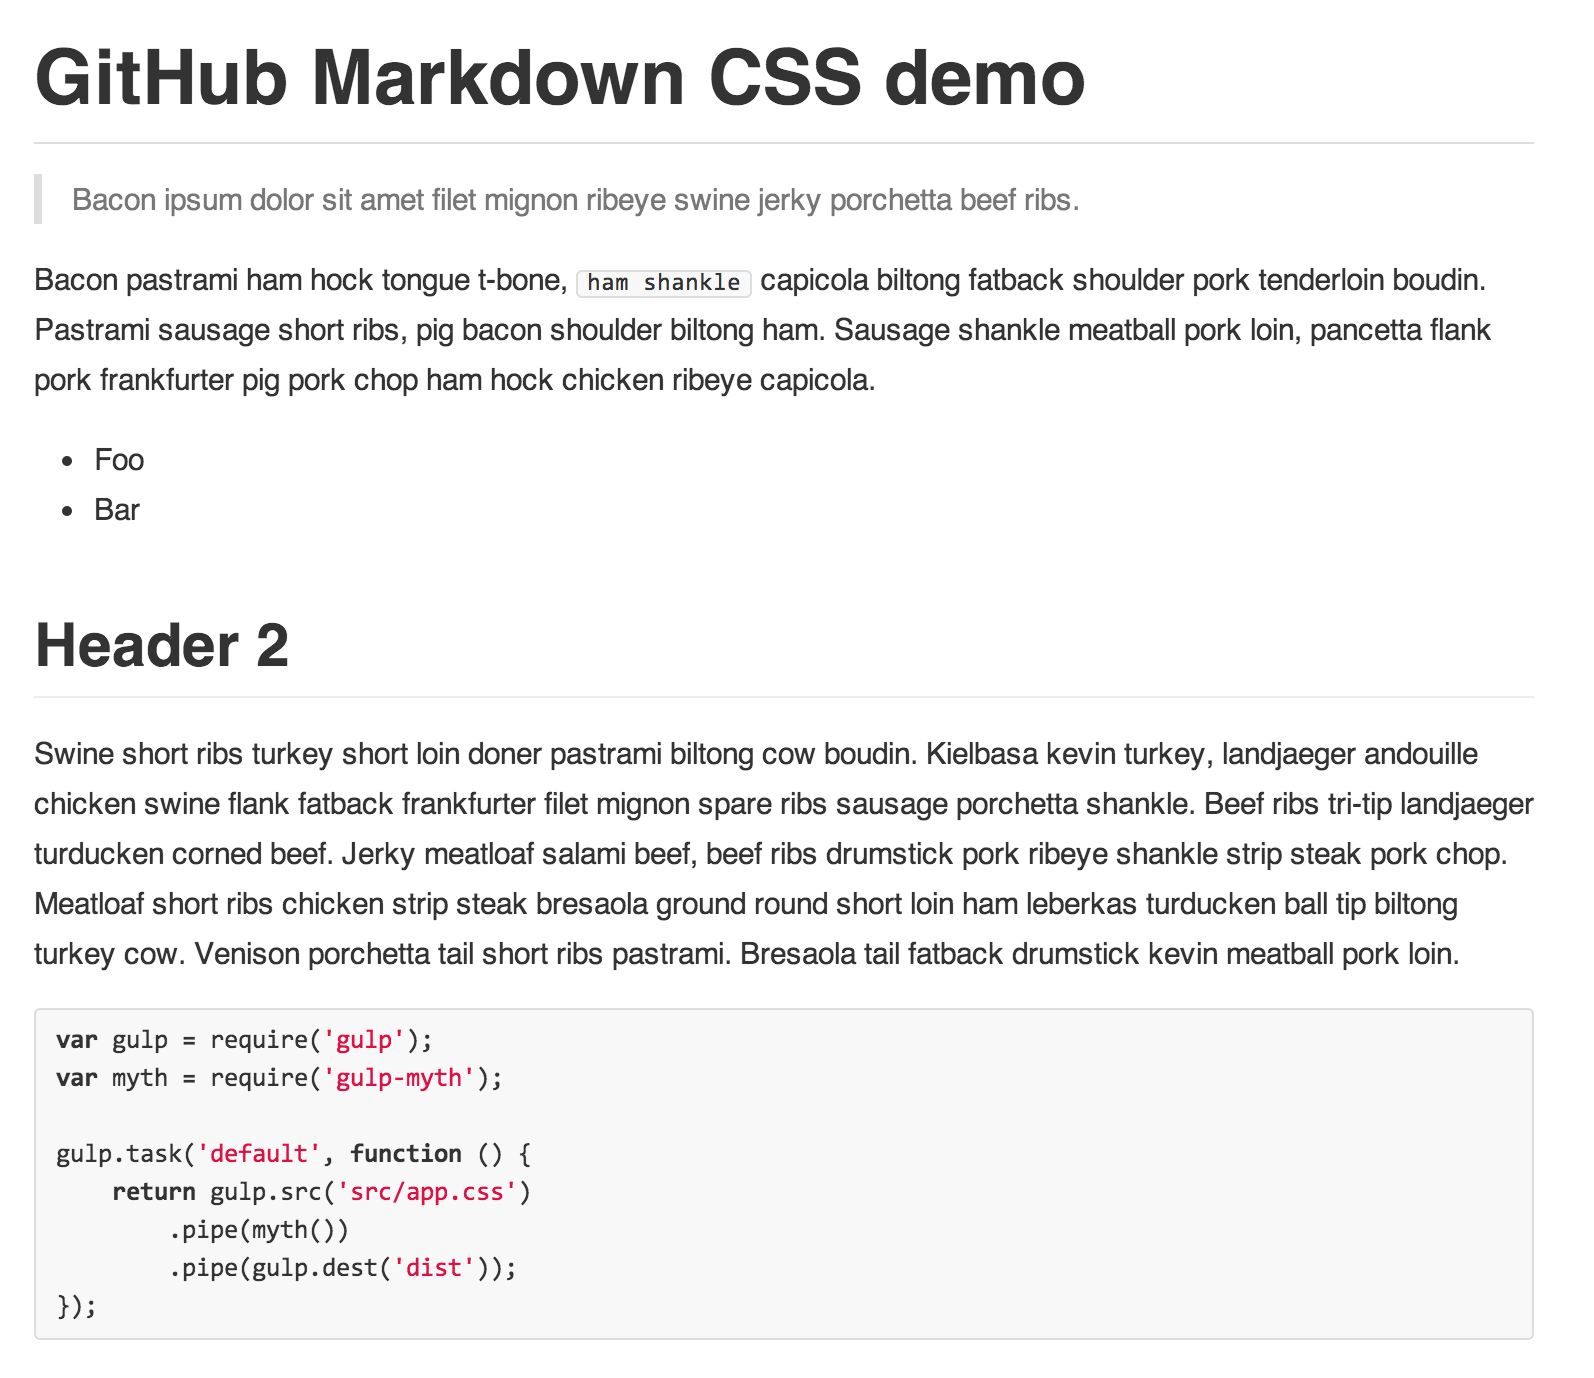
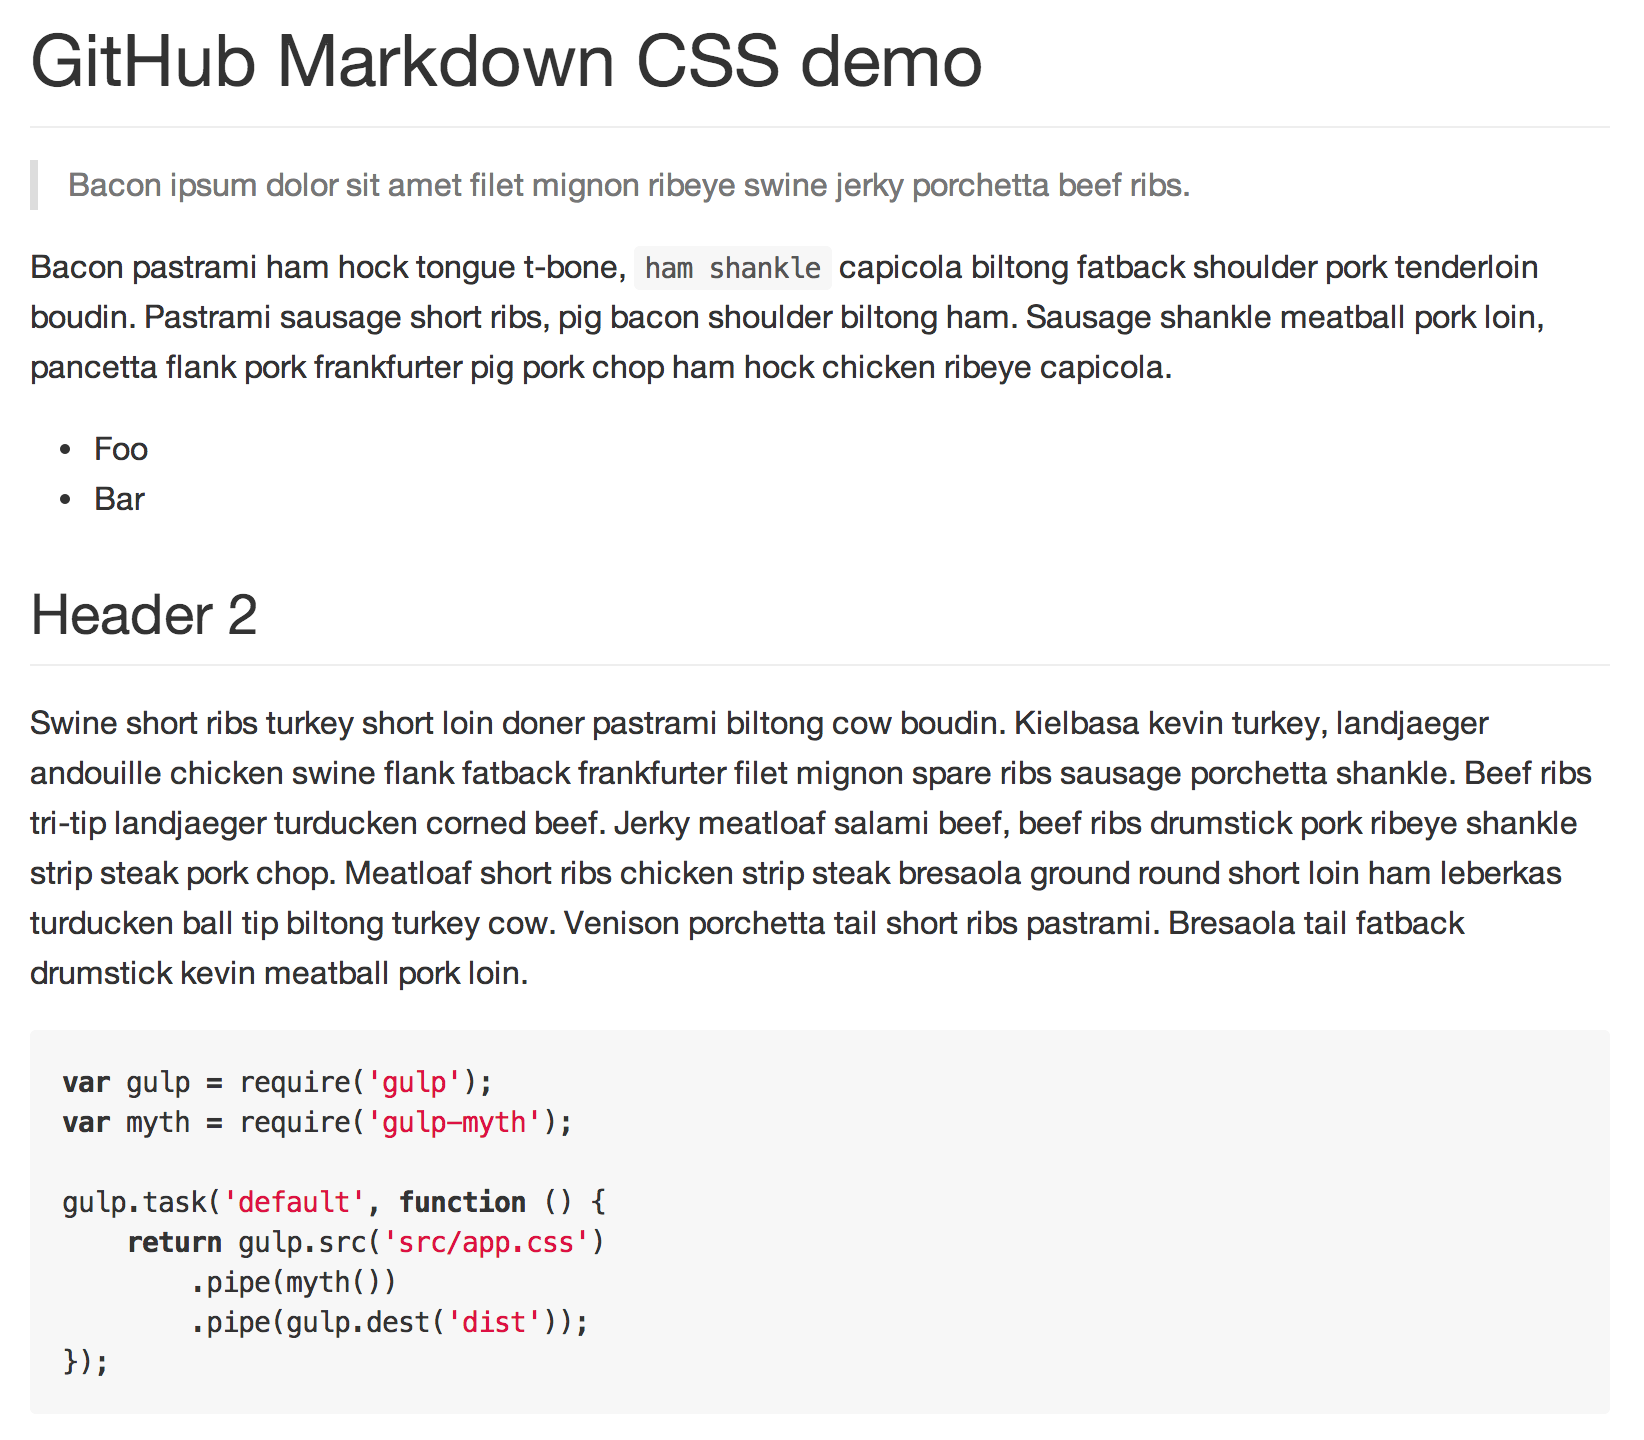
generate the new GitHub readme style
https://twitter.com/mdo/status/496475496457072640

I just ran `npm run generate`. Yay programming.

Changed region(s): [[0.0, 0.4057, 0.9837, 0.9361], [0.0, 0.0, 0.9529, 0.3745], [0.0307, 0.9361, 0.0615, 0.9673]]

diff --git a/github-markdown.css b/github-markdown.css
@@ -2,12 +2,13 @@
   font-family: sans-serif;
   -ms-text-size-adjust: 100%;
   -webkit-text-size-adjust: 100%;
-  font: 13px Helvetica, arial, freesans, clean, sans-serif;
+  font: 13px Helvetica, arial, freesans, clean, sans-serif, "Segoe UI Emoji", "Segoe UI Symbol";
   line-height: 1.4;
   color: #333333;
-  font-size: 15px;
-  line-height: 1.7;
   overflow: hidden;
+  font-family: "Helvetica Neue", Helvetica, Arial, freesans, sans-serif;
+  font-size: 16px;
+  line-height: 1.6;
   word-wrap: break-word;
 }
 
@@ -69,10 +70,7 @@
   text-decoration: none;
 }
 
-.markdown-body a:hover {
-  text-decoration: underline;
-}
-
+.markdown-body a:hover,
 .markdown-body a:focus,
 .markdown-body a:active {
   text-decoration: underline;
@@ -89,16 +87,12 @@
 
 .markdown-body hr:before,
 .markdown-body hr:after {
-  content: " ";
   display: table;
+  content: " ";
 }
 
 .markdown-body hr:after {
   clear: both;
-}
-
-.markdown-body ol ol {
-  list-style-type: lower-roman;
 }
 
 .markdown-body h1,
@@ -147,6 +141,10 @@
   margin-bottom: 0;
 }
 
+.markdown-body ol ol {
+  list-style-type: lower-roman;
+}
+
 .markdown-body dd {
   margin-left: 0;
 }
@@ -170,19 +168,18 @@
   margin-bottom: 0 !important;
 }
 
-.markdown-body a.anchor {
+.markdown-body .anchor {
+  position: absolute;
+  top: 0;
+  bottom: 0;
+  left: 0;
   display: block;
   padding-right: 6px;
   padding-left: 30px;
   margin-left: -30px;
-  cursor: pointer;
-  position: absolute;
-  top: 0;
-  left: 0;
-  bottom: 0;
 }
 
-.markdown-body a.anchor:focus {
+.markdown-body .anchor:focus {
   outline: none;
 }
 
@@ -192,39 +189,50 @@
 .markdown-body h4,
 .markdown-body h5,
 .markdown-body h6 {
-  margin: 1em 0 15px;
-  padding: 0;
-  font-weight: bold;
-  line-height: 1.7;
-  cursor: text;
   position: relative;
+  margin-top: 1em;
+  font-weight: bold;
+  line-height: 1.4;
 }
 
 .markdown-body h1 {
-  font-size: 2.5em;
-  border-bottom: 1px solid #ddd;
+  padding-bottom: 0.3em;
+  margin-bottom: 16px;
+  font-size: 2.25em;
+  font-weight: normal;
+  line-height: 1.2;
+  border-bottom: 1px solid #eee;
 }
 
 .markdown-body h2 {
-  font-size: 2em;
+  padding-bottom: 0.3em;
+  margin-bottom: 16px;
+  font-size: 1.75em;
+  font-weight: normal;
+  line-height: 1.225;
   border-bottom: 1px solid #eee;
 }
 
 .markdown-body h3 {
+  margin-bottom: 0;
   font-size: 1.5em;
+  line-height: 1.43;
 }
 
 .markdown-body h4 {
-  font-size: 1.2em;
+  margin-bottom: 0.1em;
+  font-size: 1.25em;
 }
 
 .markdown-body h5 {
+  margin-bottom: 0.2em;
   font-size: 1em;
 }
 
 .markdown-body h6 {
-  color: #777;
+  margin-bottom: 0.2em;
   font-size: 1em;
+  color: #777;
 }
 
 .markdown-body p,
@@ -234,21 +242,21 @@
 .markdown-body dl,
 .markdown-body table,
 .markdown-body pre {
-  margin: 15px 0;
+  margin-top: 0;
+  margin-bottom: 16px;
 }
 
 .markdown-body hr {
[1 lines of base64/hex data omitted]
-  border: 0 none;
-  color: #ccc;
   height: 4px;
   padding: 0;
-  margin: 15px 0;
+  margin: 16px 0;
+  background-color: #e7e7e7;
+  border: 0 none;
 }
 
 .markdown-body ul,
 .markdown-body ol {
-  padding-left: 30px;
+  padding-left: 2em;
 }
 
 .markdown-body ol ol,
@@ -262,36 +270,36 @@
 }
 
 .markdown-body dl dt {
-  font-size: 14px;
-  font-weight: bold;
-  font-style: italic;
   padding: 0;
-  margin-top: 15px;
+  margin-top: 16px;
+  font-size: 1em;
+  font-style: italic;
+  font-weight: bold;
 }
 
 .markdown-body dl dd {
-  margin-bottom: 15px;
-  padding: 0 15px;
+  padding: 0 16px;
+  margin-bottom: 16px;
 }
 
 .markdown-body blockquote {
-  border-left: 4px solid #DDD;
   padding: 0 15px;
   color: #777;
+  border-left: 4px solid #ddd;
 }
 
 .markdown-body blockquote>:first-child {
-  margin-top: 0px;
+  margin-top: 0;
 }
 
 .markdown-body blockquote>:last-child {
-  margin-bottom: 0px;
+  margin-bottom: 0;
 }
 
 .markdown-body table {
+  display: block;
   width: 100%;
   overflow: auto;
-  display: block;
 }
 
 .markdown-body table th {
@@ -300,13 +308,13 @@
 
 .markdown-body table th,
 .markdown-body table td {
-  border: 1px solid #ddd;
   padding: 6px 13px;
+  border: 1px solid #ddd;
 }
 
 .markdown-body table tr {
-  border-top: 1px solid #ccc;
   background-color: #fff;
+  border-top: 1px solid #ccc;
 }
 
 .markdown-body table tr:nth-child(2n) {
@@ -320,35 +328,38 @@
 }
 
 .markdown-body code {
-  margin: 0;
-  border: 1px solid #ddd;
-  background-color: #f8f8f8;
-  border-radius: 3px;
   padding: 0;
+  padding-top: 0.2em;
+  padding-bottom: 0.2em;
+  margin: 0;
+  font-size: 85%;
+  color: #555;
+  background-color: #f7f7f7;
+  border-radius: 3px;
 }
 
 .markdown-body code:before,
 .markdown-body code:after {
-  content: "\00a0";
   letter-spacing: -0.2em;
+  content: "\00a0";
 }
 
 .markdown-body pre>code {
-  margin: 0;
   padding: 0;
+  margin: 0;
+  font-size: 100%;
   white-space: pre;
-  border: none;
   background: transparent;
+  border: 0;
 }
 
 .markdown-body .highlight pre,
 .markdown-body pre {
-  background-color: #f8f8f8;
-  border: 1px solid #ddd;
-  font-size: 13px;
-  line-height: 19px;
+  padding: 16px;
   overflow: auto;
-  padding: 6px 10px;
+  font-size: 85%;
+  line-height: 1.45;
+  background-color: #f7f7f7;
   border-radius: 3px;
 }
 
@@ -357,15 +368,15 @@
 }
 
 .markdown-body pre code {
-  margin: 0;
-  padding: 0;
-  background-color: transparent;
-  border: none;
-  word-wrap: normal;
-  max-width: initial;
   display: inline;
+  max-width: initial;
+  padding: 0;
+  margin: 0;
   overflow: initial;
   line-height: inherit;
+  word-wrap: normal;
+  background-color: transparent;
+  border: 0;
 }
 
 .markdown-body pre code:before,
